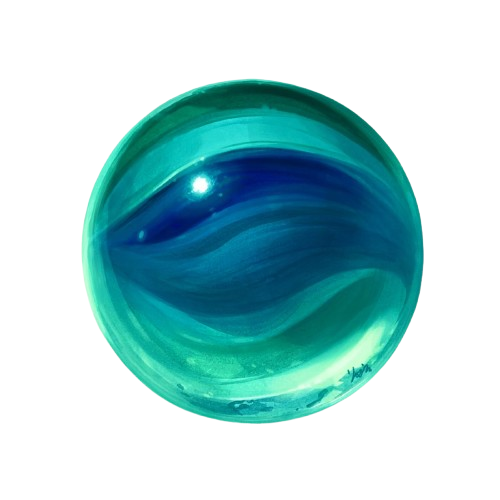
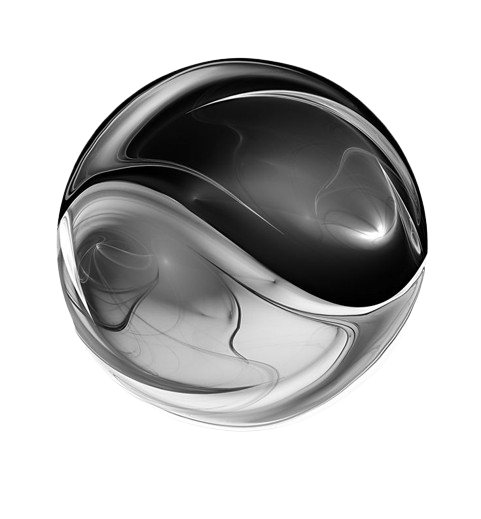
MIs bolas al fin colisionan entre ellas y se rompen
mis bolitas ya se destruyen y am happy persone
que asco le tengo a los juego de bolas

diff --git a/ManagementGame/ManagementGame.js b/ManagementGame/ManagementGame.js
@@ -13,17 +13,53 @@ export default class ManagementGame extends Phaser.Scene{
     
     CreateBall() // Metodo que crea las bolas y se encarga de que cuando chocquen contra la pared se detengan
     {
-       
-         let ball= new Ball(this,this.player.x,this.player.y,1000,0,this.player.angleFlecha);
+      console.log("ENTRO EN MANAGEMENT GAME");
+         this.color = Phaser.Math.Between(0, 2);
+         let ball= new Ball(this,this.player.x,this.player.y,1000,this.color,this.player.angleFlecha);
+         ball.setScale(this.BallScale);
+         ball.setOrigin(0, 0);
         this.ballsDisparadas.push(ball);  // push como los vectores amo los vectoresç
-         this.physics.add.collider(ball,this.Wall,() =>{ 
-          if(!ball.Placed)
+         this.physics.add.collider(ball,this.Wall,() =>{ this.stopball(ball); });
+
+         let i = 0; 
+         let j = 0; 
+         let colcoada = false;
+         while(i<this.filas && !colcoada)
+         {
+           j = 0;
+          while(j<this.columnas && !colcoada)
           {
-            ball.Placed = true;
-            console.log("Me pege");
-          this.placeball(ball,1,1);   }//Temporal 
-          })
+           
+             this.physics.add.collider(ball,this.balls[i][j], () =>{this.stopball(ball); });
+            j++;
+          }
+          i++;
+         }
           
+    }
+
+    stopball(ball)
+    {
+      if (ball.Placed)
+      {
+
+        return; 
+      }
+      ball.Placed = true;
+       let columna = Math.round((ball.x - this.StartX) / ball.displayWidth);
+       let fila = Math.round((ball.y - this.StartY) / ball.displayHeight);
+
+       let celda = this.SearchFreeCell(fila,columna);
+    if (celda !== null)
+    {
+        this.placeball(ball, celda[0], celda[1]);
+      
+    }
+    
+    ball.body.setVelocity(0, 0);
+    ball.body.setAcceleration(0, 0);
+    ball.body.moves = false;
+    this.Match(celda[0],celda[1]); 
     }
 
     SearchFreeCell(fila,columna) // Metodo para buscar la celda mas cercana a ala colision  //JAVAAAAAAAAAAAAAAAAAAAAAAAAAAAAAAAAAAAAAAAAAAAAAA
@@ -83,26 +119,32 @@ export default class ManagementGame extends Phaser.Scene{
     }
     create() //Feo pero feo el codigo este
     {
+     
         let Background =this.add.image(0,0,'BackgroundManagment'); // Cargo el fondo
         Background.setOrigin(0,0);  //Pongo su origen en el 0
         Background.setDisplaySize(1000,500);
-
-        this.player =  new Player(this,500,300,'player');
+      
+        this.player =  new Player(this,500,500,'player');
 
         this.teclado = this.input.keyboard.createCursorKeys();
 
         this.balls = []; 
 
+        
+
         this.ballsDisparadas = [];
+        this.BallScale = 0.1;
+
 
        this.filas = 8;  // preguntar a toni sobre los array bidimensionales en java
        this.columnas = 12; 
 
        this.PreviousShot = false; // Para no spwanear
-       this.StartX = 0; //Donde empieza la cuadricula
-       this.StartY = 0;  //Donde empeiza la cuadricula
+       
        this.Wall = this.add.rectangle(300,50,10000,10); // Provisional
        this.physics.add.existing(this.Wall,true);
+       this.StartX = 0; //Donde empieza la cuadricula
+       this.StartY =  this.Wall.y + this.Wall.height; //Donde empeiza la cuadricula
        for(let f = 0; f<this.filas;f++)
        {
         this.balls[f] =[];
@@ -114,7 +156,7 @@ export default class ManagementGame extends Phaser.Scene{
        
        }
        
-       this.balls[0][2] = "ocupada";
+   
        
 
      
@@ -126,7 +168,7 @@ export default class ManagementGame extends Phaser.Scene{
     }
      placeball(ball,fila,columnas)
      {
-       if(fila<0 || fila >this.filas || columnas<0 || columnas>=this.columnas)
+       if(fila<0 || fila >=this.filas || columnas<0 || columnas>=this.columnas)
        {
          console.log("Fuera de límites");
         return;
@@ -148,8 +190,82 @@ export default class ManagementGame extends Phaser.Scene{
      }
     GetNeighbors(filas,columnas)
     {
-        
+      let vecino =  []; 
+        for(let i = -1;  i <= 1; i++)
+        {
+          for(let j = -1;  j <= 1; j++)
+          {
+               if( i != 0 || j != 0)
+               {
+                if (filas+i >= 0 && filas+i<this.filas)
+                {
+                  if (columnas+j >= 0 && columnas+j<this.columnas)
+                  {
+                      vecino.push([filas+i, columnas + j]);
+                  }
+                }
+               }
+          }
+        }
+        return vecino; 
     }
+    GetConnectedBalls(fila, columna, color, visitadas, grupo)
+    {
+       if (!(fila >= 0 && fila<this.filas && columna >= 0 && columna<this.columnas))
+       {
+        return;
+       }
+       if (this.balls[fila][columna] ==null)
+       {
+        return; 
+       }
+
+      if (visitadas.has(fila +","+columna))
+      {
+        return; 
+      }
+      if (this.balls[fila][columna].color !== color)
+      {
+        return; 
+      }
+      visitadas.add(fila +","+columna);
+
+      grupo.push({ball: this.balls[fila][columna],
+        fila: fila, 
+        columna:columna
+      }); 
+      
+      let vecinos = this.GetNeighbors(fila,columna); 
+      for(let i = 0; i<vecinos.length;i++)
+      {
+        this.GetConnectedBalls(vecinos[i][0],vecinos[i][1],color,visitadas,grupo)
+      }
+       
+    }
+
+    Match(fila,columna)
+    {
+          let col = this.balls[fila][columna].color; 
+          let visitadas = new Set(); //VIVA EL SET LOS VECTORES Y TODO LO YA CREADO
+          let grupo =[]; 
+          this.GetConnectedBalls(fila,columna,col,visitadas,grupo);
+          console.log ("Este es el color: " +col + " Este es el n de grupo " + grupo.length); 
+          if(grupo.length < 3)
+          {
+            return;
+          }
+          for(let i = 0; i < grupo.length; i++)
+          {
+            let f = grupo[i].fila; 
+            let c = grupo[i].columna; 
+           
+            grupo[i].ball.destroy(); 
+             this.balls[f][c] = null; 
+          
+          }
+
+    }
+
     update()
     {
        let disparoActual = this.teclado.up.isDown; 
@@ -161,5 +277,6 @@ export default class ManagementGame extends Phaser.Scene{
         this.PreviousShot = disparoActual;
 
       this.player.move(this.teclado);
+      
     }
 }

diff --git a/ManagementGame/Ball.js b/ManagementGame/Ball.js
@@ -5,10 +5,25 @@ export default class Ball extends Phaser.GameObjects.Sprite{
         super(scene,x,y,'Ball')
         scene.add.existing(this);
         scene.physics.add.existing(this) //Añadimos fisica
-        this.setScale(0.2);
+       
         this.color = color;
         this.Speed = velocidad;
         this.Placed = false;
+        if (color == 0)
+        {
+       this.setTint(0xffff00); 
+        console.log("color3");
+        }
+        else if (color == 1)
+        {
+           this.setTint(0x00ff00); 
+            console.log("color2") ;
+        }
+        else{
+            this.setTint(0xff69b4);
+            console.log("color1");
+           
+        }
 
         // Phaser te amo venditos tutoriales mentira te odia quewhf`Q´R 034U`'2 4
         let velocidadxy = scene.physics.velocityFromAngle(angulo, velocidad);

diff --git a/estilo.css b/estilo.css
@@ -19,7 +19,13 @@ h2 {
 {
   padding-left: 10px;
 }
+#Juego {
+    outline: 2px solid red;
+}
 
+#Juego canvas {
+    outline: 2px solid blue;
+}
 body {
   background-color: rgb(255, 230, 239);
 }

diff --git a/index.html b/index.html
@@ -20,7 +20,7 @@
 
   <div>
     <h2>Juego</h2>
-    <div Id="Juego">
+    <div id="Juego">
     <script src="./Principal/game.js" type="module"></script>
     </div>
   </div>
